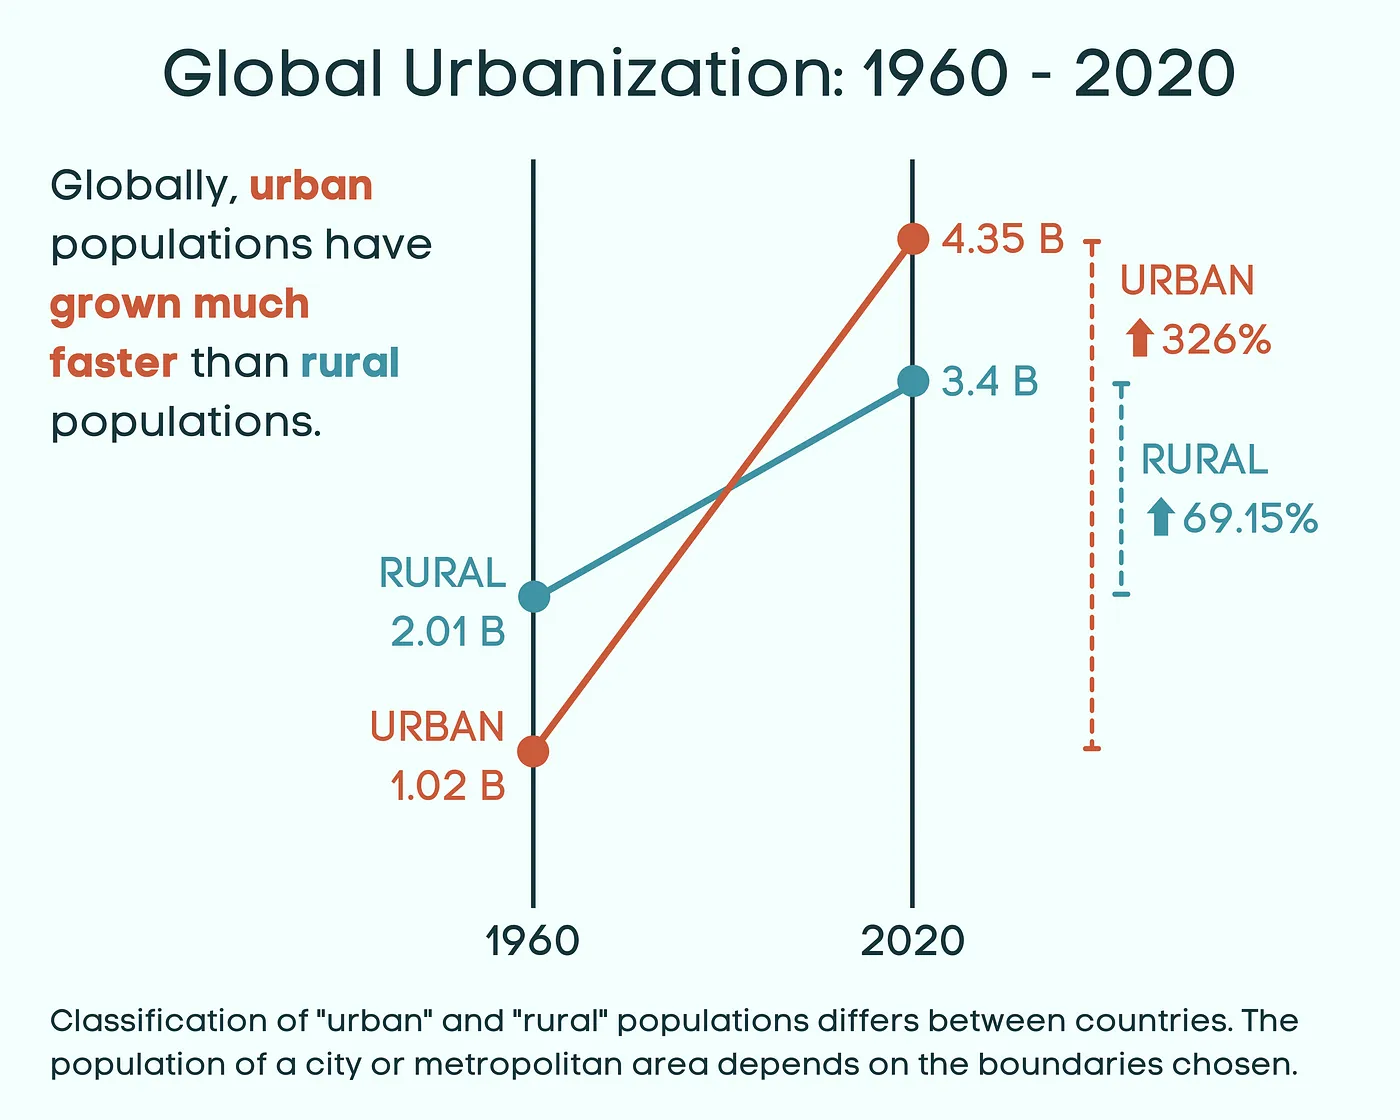
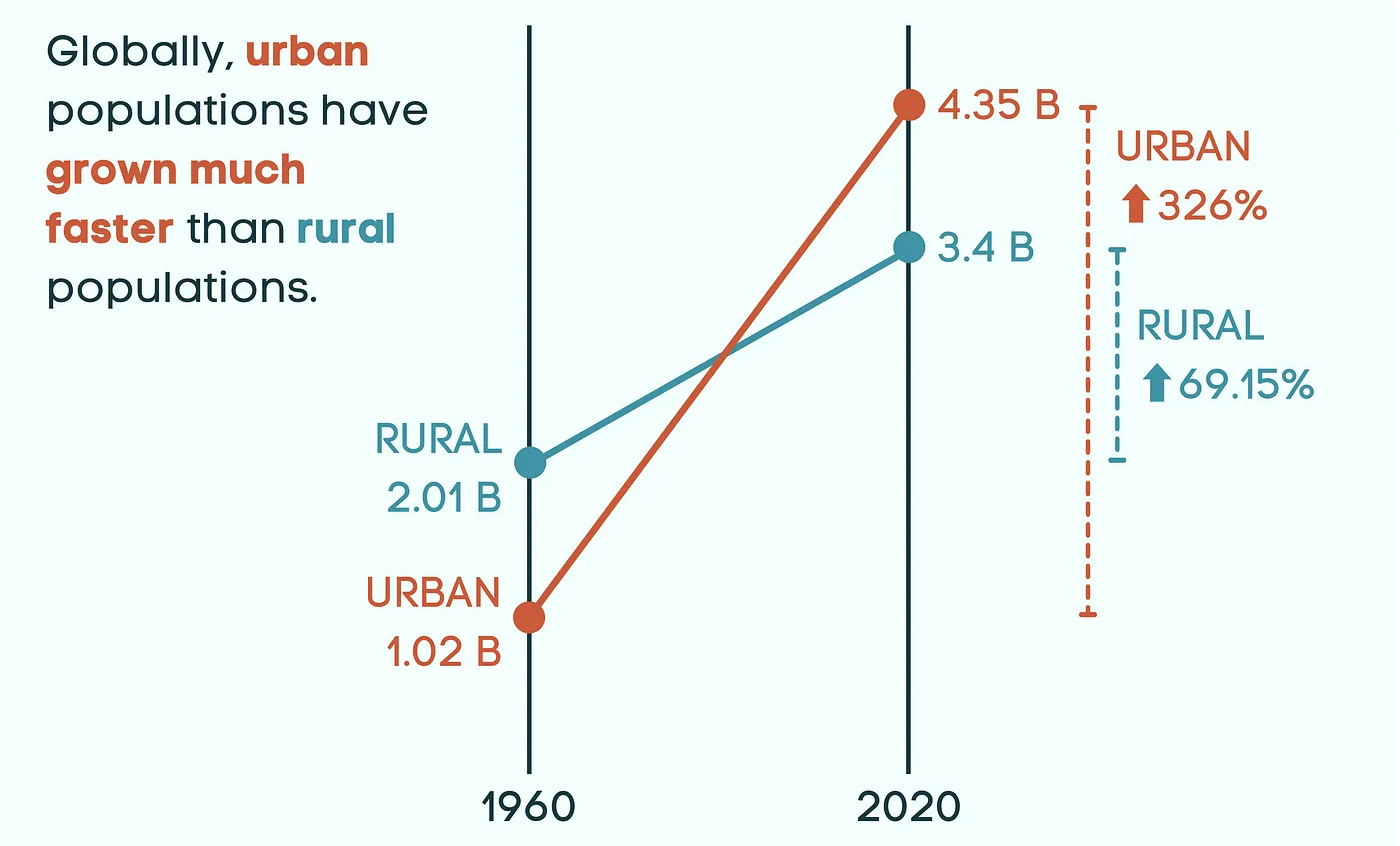
update urbanization slides

Changed region(s): [[0.0307, 0.0307, 0.9521, 0.9835], [0.0307, 0.1229, 0.3071, 0.3995], [0.7679, 0.0307, 0.8907, 0.0922]]

diff --git a/pols-4641/slides/02-urbanization.html b/pols-4641/slides/02-urbanization.html
@@ -3,7 +3,7 @@
   <head>
     <title>Urbanization</title>
     <meta charset="utf-8" />
-    <script src="02-urbanization_files/header-attrs-2.20/header-attrs.js"></script>
+    <script src="02-urbanization_files/header-attrs-2.14/header-attrs.js"></script>
     <link href="02-urbanization_files/remark-css-0.0.1/default.css" rel="stylesheet" />
     <link href="02-urbanization_files/remark-css-0.0.1/default-fonts.css" rel="stylesheet" />
   </head>
@@ -28,10 +28,31 @@ class: center, middle, inverse, title-slide
 
 
 
-
 ---
 
-&lt;img src="img/global-urbanization.png" width="600" style="display: block; margin: auto;" /&gt;
+## Urbanization
+
+--
+
+By our [best estimates](https://www.un.org/en/dayof8billion), the world's population reached 8 billion in November 2022.
+
+--
+
+The majority of these people live in cities.
+
+
+&lt;img src="img/global-urbanization.png" width="70%" style="display: block; margin: auto;" /&gt;
+
+
+--
+
+$$
+\frac{3.35 \text{ billion}}{60 \text{y} \times 365.25 \text{d} \times 24\text{h} \times 60\text{m} \times 60\text{s}} \approx 2
+$$
+???
+
+Roughly 2 people added to cities per *second* over a period of 60 years!
+
 
 ???
 
@@ -39,7 +60,11 @@ https://medium.com/@paigevsmyth/day-58-global-urbanization-slope-chart-629bc9080
 
 ---
 
-## Urban Growth (Per Hour!)
+## Urbanization
+
+Which city do you think is growing the fastest (people per hour)?
+
+--
 
 &lt;img src="img/guardian-urban-growth-per-hour.png" width="120%" style="display: block; margin: auto;" /&gt;
 
@@ -47,11 +72,13 @@ https://medium.com/@paigevsmyth/day-58-global-urbanization-slope-chart-629bc9080
 
 https://www.theguardian.com/cities/2015/nov/23/cities-in-numbers-how-patterns-of-urban-growth-change-the-world#:~:text=Of%20the%20Urban%20Age%20cities,at%209%20and%2010%20people%2F
 
+https://www.thecable.ng/lagos-population-rises-by-85-people-per-hour-says-wef#:~:text=The%20World%20Economic%20Forum%20(WEF,and%2010%20people%20per%20hour.
+
 ---
 
-## Cities Make Us Richer
+## Urbanization
 
-Because cities make more types of economic activity possible, urbanization and economic growth go hand-in-hand.
+For all the reasons we discussed in Module 1, cities create economic opportunities. Urbanized countries tend to be wealthier.
 
 --
 
@@ -65,13 +92,37 @@ In the animation, highlight in particular the different trajectories of India an
 
 ---
 
-## Origins of Urbanization
+## Urbanization
 
-Why are some countries more urban while others are predominantly rural? When should we expect a country to **urbanize**?
+This week:
 
 --
 
-To answer these questions, consider a stripped-down version of the mathematical model in .cite[Krugman (1991)]:
+- Why do some countries urbanize while others have remained predominantly rural?
+
+--
+
+- What explains "waves" of urbanization throughout human history?
+
+--
+
+- How does living in cities transform a society?
+
+---
+
+class: center, middle, inverse
+
+# Theory
+
+---
+
+## Theory
+
+When should we expect a country to **urbanize**?
+
+--
+
+To get some intuition, let's consider a stripped-down version of the mathematical model in .cite[Krugman (1991)]:
 
 --
 
@@ -83,7 +134,7 @@ To answer these questions, consider a stripped-down version of the mathematical 
 
 - It costs $1 for a solitary weaver to make a shirt.
 
-- There are **economies of scale**. It only costs $(1 - c) to make a shirt if all the weavers work together in one place.
+- There are **scale economies**. It only costs $(1 - c) to make a shirt if all the weavers work together in one place.
 
 - It costs `\(T\)` to transport a shirt to another village.
 
@@ -95,9 +146,9 @@ To answer these questions, consider a stripped-down version of the mathematical 
 
 ---
 
-## Origins of Urbanization
+## Theory
 
-When does it cost less to make all your shirts in one location and ship them to the others?
+When does make sense to produce all the shirts in one location and ship them to the other locations?
 
 --
 
@@ -106,14 +157,14 @@ $$
 $$
 ---
 
-## Origins of Urbanization
+## Theory
 
-When does it cost less to make all your shirts in one location and ship them to the others?
+When does make sense to produce all the shirts in one location and ship them to the other locations?
 
 `$$\underbrace{(1-c)N}_\text{factory production cost} + \underbrace{TF}_\text{transport cost} &lt; \underbrace{1N}_\text{village production cost}$$`
 --
 
-Do some algebra, and you can find the conditions under which agglomeration is cheaper:
+Divide each side by `\(N\)`, add `\(c - 1\)`, and you get the conditions under which agglomeration is cheaper:
 
 --
 
@@ -123,15 +174,37 @@ Do some algebra, and you can find the conditions under which agglomeration is ch
 
 In other words, you should expect countries to urbanize when:
 
-- **Transportation** is cheap
-- **Agricultural productivity** is high
-- Cost-savings from **scale economies** are large
+- **Transportation** is cheap `\((T)\)`
+- **Agricultural productivity** is high `\((\frac{F}{N}\)` small)
+- Cost-savings from **scale economies** are large `\((c)\)`
+
+---
+
+class: center, middle, inverse
+
+# Four Waves of Urbanization
 
 ---
 
 ## Four Waves of Urbanization
 
-In this module, we'll talk about four significant periods of urbanization in human history. 
+Over the next week, we'll talk about four significant periods of urbanization in human history. 
+
+--
+
+- The United States (19th Century)
+
+--
+
+- The First Cities (~3000 BC)
+
+--
+
+- Pre-Industrial Europe (1300-1800)
+
+--
+
+- China (20th and 21st Centuries)
 
 --
 
@@ -172,7 +245,7 @@ What happened here??
 
 ???
 
-Take a minute to discuss with your group. We're looking for technologies that
+Take a minute to discuss with your group. We're looking for technologies that improved transportation, agricultural productivity, and facilitated scale economies
 
 ---
 
@@ -230,7 +303,7 @@ At the very same time that productivity improvements made it so that fewer peopl
 
 ## US Urbanization (19th Century)
 
-These three technological advances -- improvements in transportation, agriculture, and scale economies -- spurred a radical transformation in US society.
+These three technological advances -- improvements in transportation, agriculture, and scale economies -- transformed US society. From a country where 90% of people lived on farms to a predominantly urban nation within 50 years. 
 
 --
 
@@ -238,19 +311,15 @@ These three technological advances -- improvements in transportation, agricultur
 
 One of the historical legacies of this era is the "Great Migration".
 
+???
+
+This will set the stage for a number of topics we'll talk about in Module 3, including residential segregation in US cities and the nature of US political parties.
+
 ---
 
 class: center, middle, inverse
 
 # The First Cities (~3000 BC)
-
----
-
-## The First Cities (~3000 BC)
-
-
-
-
 
     </textarea>
 <style data-target="print-only">@media screen {.remark-slide-container{display:block;}.remark-slide-scaler{box-shadow:none;}}</style>
